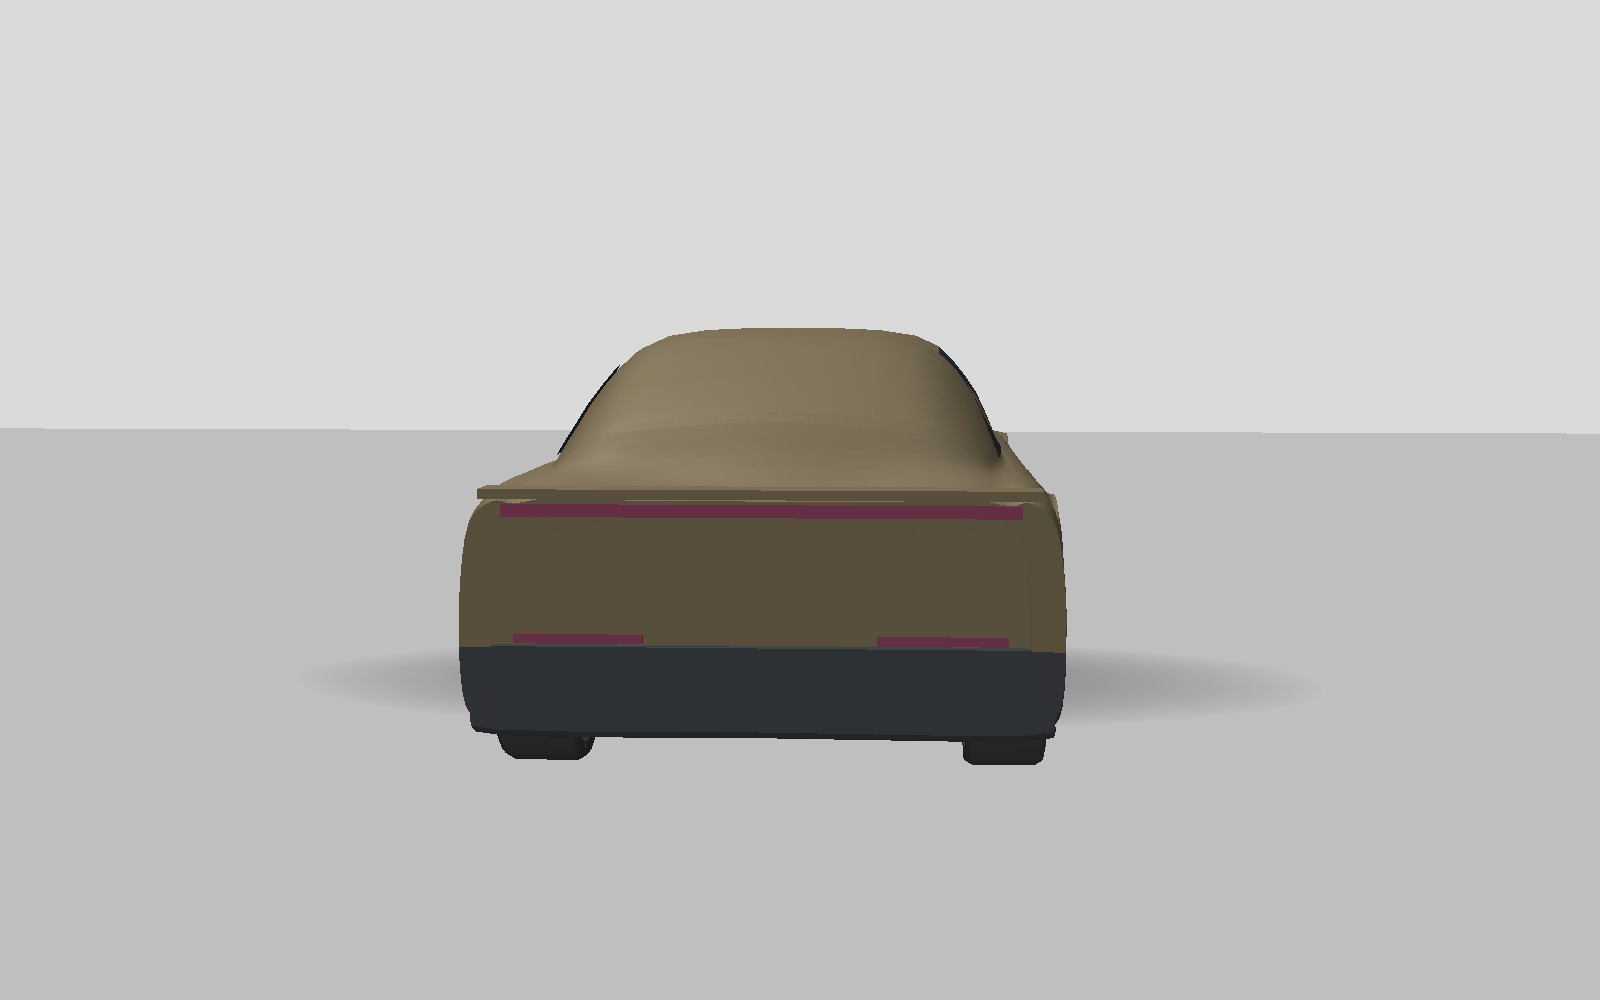
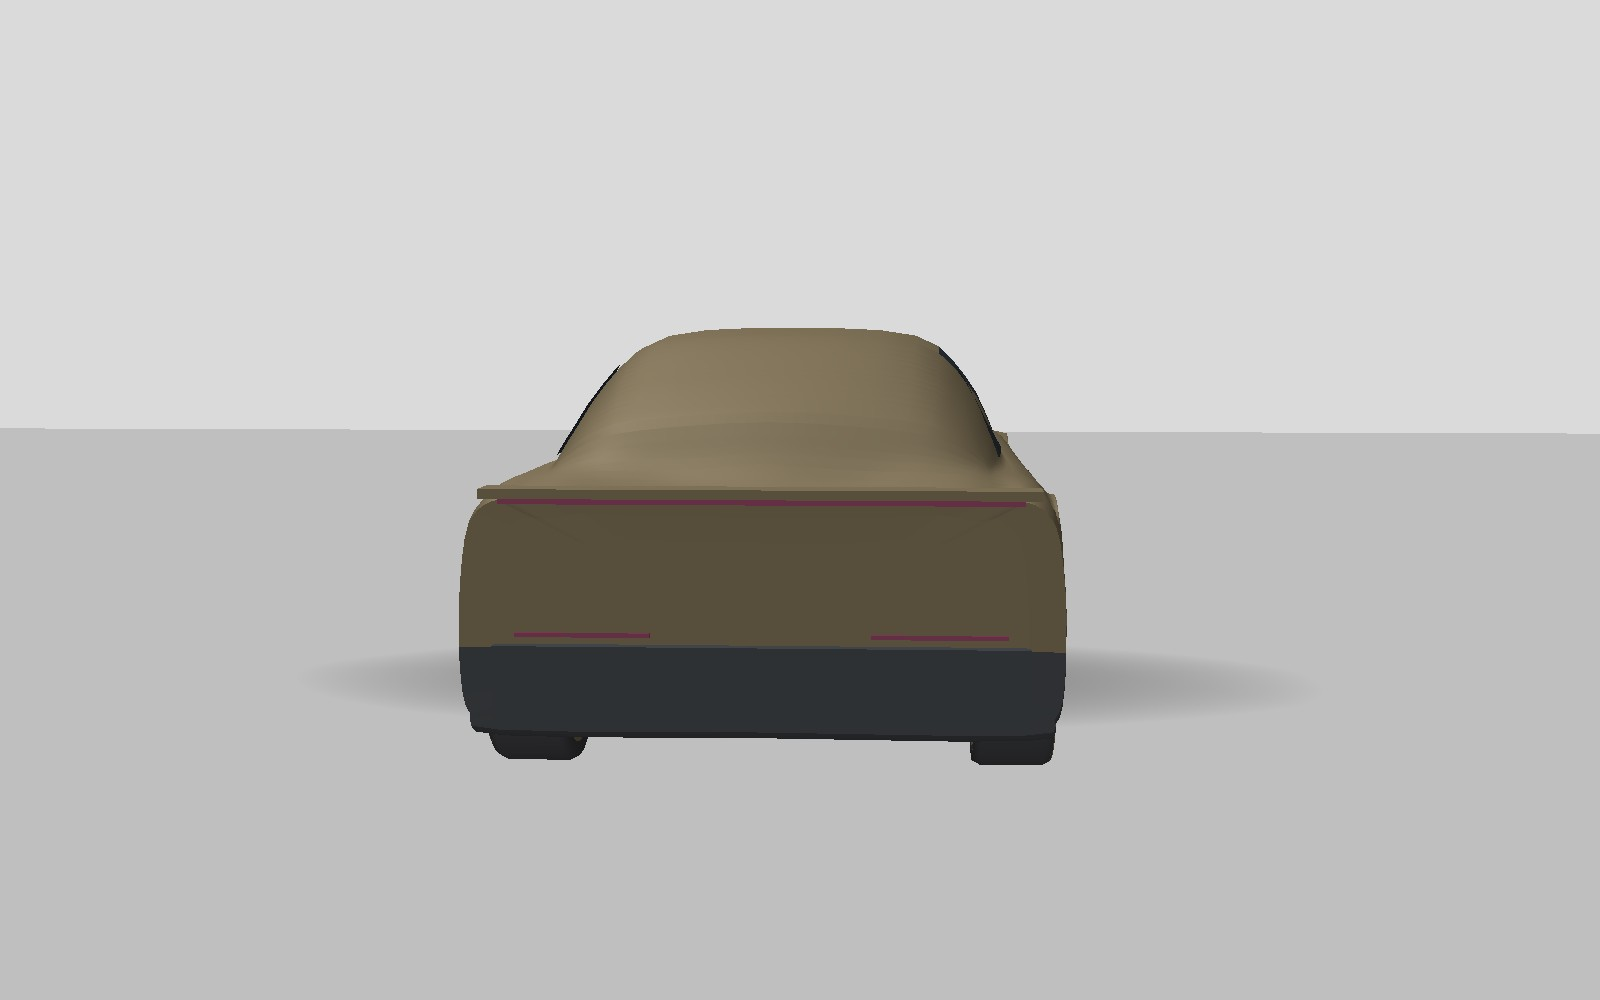
feat(world): thin Cybercab lamps and seat the wheels in the arches (#109)
The body loft stays the #107 sweep. A raised belt and a pinched tail
were tried and withdrawn after they looked worse than the merged shape.

Tests: python -m pytest tests/test_vehicles.py -q -> 10 passed.

diff --git a/jevpilot_vision/web/semif-world/cybercab.js b/jevpilot_vision/web/semif-world/cybercab.js
@@ -1,4 +1,4 @@
-// The Cybercab-style hero (#90, finish pass #107), rebuilt from photos of the 2024 show car
+// The Cybercab-style hero (#90, finish pass #107, form pass #109), rebuilt from photos of the 2024 show car
 // (Wikimedia Commons, see docs/visual/cybercab/README.md) with the img2threejs workflow: analysis,
 // spec, passes reviewed against the references. No Tesla emblems or lettering.
 //
@@ -305,8 +305,10 @@ function capForwardZ(tris, x, y) {
 // face, because the sampled ring sits inside that face. Stations are 3 mm apart so a quad does not
 // cut the fender's plan curve. A flat offset from NOSE0 sinks the nose into the cap.
 function frontLightBar(rings, zs) {
-  const h = 0.035, gap = 0.003, rows = 24;
-  const barY = (z) => shoulder(z) - 0.03;
+  const h = 0.016, gap = 0.003, rows = 8;
+  // The show car's slit sits on the bumper crown and only rises as it wraps the corner (#109).
+  // Following the shoulder put a 35 mm band across the top of the nose.
+  const barY = spline([[-2.4, 0.43], [-2.2, 0.47], [-2.02, 0.53], [-1.9, 0.57]]);
   const ringAt = (z) => {
     let i = 0;
     while (i < zs.length - 2 && zs[i + 1] < z) i++;
@@ -550,7 +552,7 @@ function wheel(name, x, z, front, m) {
   // its radius, and a small domed centre cap.
   const f = out * (w / 2 + 0.002), o = (d) => f + out * d; // proud of the tyre's sidewall, so only a thin tyre band shows
   spin.add(m.cover, lathe([
-    [r * 0.945, o(-0.03)], [r * 0.945, o(-0.006)], [r * 0.925, o(0.002)], [r * 0.64, o(0.003)], [r * 0.61, o(-0.006)],
+    [r * 0.97, o(-0.03)], [r * 0.97, o(-0.006)], [r * 0.948, o(0.002)], [r * 0.64, o(0.003)], [r * 0.61, o(-0.006)],
     [r * 0.6, o(-0.012)], [0.07, o(-0.012)], [0.055, o(-0.004)], [0.035, o(0.002)], [0.001, o(0.004)],
   ], { segments: 44 }));
   spin.add(m.cover, lathe([[r * 0.9, -out * (w / 2)], [0.001, -out * (w / 2)]], { segments: 30 })); // the inner face
@@ -572,7 +574,7 @@ function mats() {
     clad: material(C.trim, { roughness: 0.62, metalness: 0.1 }),
     well: material(C.trim, { roughness: 0.95, side: 2 }),
     tyre: material(C.tyre, { roughness: 0.92, side: 2 }),
-    lens: material(C.lens, { emissive: C.lens, emissiveIntensity: 1.6, roughness: 0.2, side: 2 }),
+    lens: material(C.lens, { emissive: C.lens, emissiveIntensity: 0.7, roughness: 0.2, side: 2 }),
     tail: material(C.taillight, { emissive: C.taillight, emissiveIntensity: 0.9, roughness: 0.3, side: 2 }),
   };
 }
@@ -591,8 +593,8 @@ export function buildCybercab() {
   // lamps at the bumper corners and the dark bumper itself.
   const lipY = Math.max(shoulder(TAIL), roof(TAIL)) - 0.012;
   details.add(m.paint, box(1.72, 0.03, 0.13, 0, lipY, L2 - 0.065)); // overhangs the tail face by 6 cm; its edge is the car's end
-  details.add(m.tail, box(1.6, 0.04, 0.008, 0, lipY - 0.055, TAIL + 0.004));
-  for (const side of [-1, 1]) details.add(m.tail, box(0.4, 0.03, 0.008, side * 0.56, 0.535, TAIL + 0.03));
+  details.add(m.tail, box(1.62, 0.016, 0.008, 0, lipY - 0.028, TAIL + 0.004));
+  for (const side of [-1, 1]) details.add(m.tail, box(0.42, 0.014, 0.008, side * 0.55, 0.545, TAIL + 0.02));
   details.add(m.clad, box(1.66, 0.25, 0.05, 0, 0.385, TAIL + 0.005));
   // Wheel wells: a dark half-tube inside each arch, so the gap round the tyre is shadow, not the
   // far side of the car. It stays under the fender (shoulder > arch top over both axles).
@@ -604,7 +606,7 @@ export function buildCybercab() {
   extra.add(...details.meshes());
   group.add(extra);
 
-  const track = (az) => half(az) - CYBERCAB.w / 2 - 0.04; // covers flush with the fender lip
+  const track = (az) => half(az) - CYBERCAB.w / 2 - 0.014; // cover face stays just inside the fender lip
   for (const [name, az, isFront] of [["wheel_fl", front, true], ["wheel_fr", front, true], ["wheel_rl", rear, false], ["wheel_rr", rear, false]]) {
     group.add(wheel(name, (name.endsWith("l") ? -1 : 1) * track(az), az, isFront, m));
   }

diff --git a/tests/test_vehicles.py b/tests/test_vehicles.py
@@ -226,15 +226,15 @@ def test_issue107_the_paint_is_matte_and_the_hood_and_fenders_are_split():
         "const tv = verts(K.PALETTE.car.trim), lens = verts(K.PALETTE.car.lens);"
         "const hood = tv.filter((p) => Math.abs(p[2] + 1.52) < 0.006 && p[1] > 0.85);"
         "const fender = tv.filter((p) => p[1] > 0.7 && p[2] < -1.55 && p[2] > -2.20 && Math.abs(Math.abs(p[0]) - 0.62) < 0.02);"
-        "const nose = lens.filter((p) => p[2] < -2.331);"
-        "const side = lens.filter((p) => p[2] >= -2.331 && p[2] < -1.95 && Math.abs(p[0]) > 0.2);"
+        "const nose = lens.filter((p) => p[2] < -2.236);"
+        "const side = lens.filter((p) => p[2] >= -2.232 && p[2] < -1.95 && Math.abs(p[0]) > 0.2);"
         "const cents = pieces.filter((n) => colour(n) === K.PALETTE.car.lens).flatMap((n) => {"
         "  const p = n.geometry.attributes.position.array; const idx = n.geometry.index; const ids = idx ? Array.from(idx.array || idx) : null; const o = [];"
         "  const push = (i0, i1, i2) => { const a = [p[3*i0], p[3*i0+1], p[3*i0+2]], b = [p[3*i1], p[3*i1+1], p[3*i1+2]], c = [p[3*i2], p[3*i2+1], p[3*i2+2]];"
         "    o.push([(a[0]+b[0]+c[0])/3, (a[1]+b[1]+c[1])/3, (a[2]+b[2]+c[2])/3]); };"
         "  if (ids) for (let i = 0; i < ids.length; i += 3) push(ids[i], ids[i+1], ids[i+2]); else for (let v = 0; v < p.length / 3; v += 3) push(v, v+1, v+2); return o; });"
-        "const noseC = cents.filter((p) => p[2] < -2.3315);"
-        "const sideC = cents.filter((p) => p[2] >= -2.3295 && p[2] < -1.95 && Math.abs(p[0]) > 0.2);"
+        "const noseC = cents.filter((p) => p[2] < -2.237);"
+        "const sideC = cents.filter((p) => p[2] >= -2.231 && p[2] < -1.95 && Math.abs(p[0]) > 0.2);"
         "const onHood = (p) => Math.abs(p[2] + 1.52) < 0.006 && p[1] > 0.85;"
         "const hoodC = pieces.filter((n) => colour(n) === K.PALETTE.car.trim).flatMap((n) => {"
         "  const p = n.geometry.attributes.position.array; const idx = n.geometry.index; const ids = idx ? Array.from(idx.array || idx) : null; const o = [];"
@@ -264,10 +264,54 @@ def test_issue107_the_paint_is_matte_and_the_hood_and_fenders_are_split():
     assert got["fenderOut"], "the fender shut lines sit just outside the paint"
     assert got["noseOut"], "the nose light-bar vertices sit just ahead of the nose skin"
     assert got["sideOut"], "the light-bar vertices stay just outside the front fenders"
-    for name, band in (("noseFace", got["noseFace"]), ("sideFace", got["sideFace"])):
-        assert band["n"] >= 1000 and band["hit"] == band["n"], band
+    for name, band, least in (("noseFace", got["noseFace"], 1000), ("sideFace", got["sideFace"], 400)):
+        assert band["n"] >= least and band["hit"] == band["n"], (name, band)
         assert 0.0002 < band["min"] and band["max"] < 0.007, (name, band)
     hood_face = got["hoodFace"]
     assert hood_face["n"] >= 80 and hood_face["hit"] == hood_face["n"], hood_face
     assert 0.001 < hood_face["min"] and hood_face["max"] < 0.008, hood_face
+
+
+def test_issue109_the_lamps_are_slits_and_the_wheels_sit_in_the_arches():
+    """#109: thin bumper and tail slits, wheels sitting inside the arches. The body loft stays
+    the #107 sweep; the plan and the belt are not pulled into a separate fastback."""
+    got = _render(
+        _BOX
+        + "const K = await mod('kit.js'); const car = V.buildHero('cybercab');"
+        "const colour = (n) => { const c = n.material && n.material.color; return typeof c === 'string' ? c : c && c.hex; };"
+        "const pts = (n, ox, oy, oz) => { const p = n.geometry.attributes.position.array, o = [];"
+        "  for (let i = 0; i < p.length; i += 3) o.push([ox + p[i], oy + p[i + 1], oz + p[i + 2]]); return o; };"
+        "const walk = (n, ox, oy, oz, acc) => { const x = ox + (n.position?.x || 0), y = oy + (n.position?.y || 0), z = oz + (n.position?.z || 0);"
+        "  if (n.geometry && colour(n)) acc.push([colour(n), pts(n, x, y, z)]); (n.children || []).forEach((c) => walk(c, x, y, z, acc)); };"
+        "const bag = []; walk(car, 0, 0, 0, bag);"
+        "const of = (hex) => bag.filter((b) => b[0] === hex).flatMap((b) => b[1]);"
+        "const span = (ps) => { const ys = ps.map((p) => p[1]); return { n: ps.length, lo: Math.min(...ys), hi: Math.max(...ys), mid: ys.reduce((s, y) => s + y, 0) / ys.length }; };"
+        "const lens = of(K.PALETTE.car.lens);"
+        "const slit = span(lens.filter((p) => p[2] < -2.30 && Math.abs(p[0]) < 0.15));"
+        "const tail = of(K.PALETTE.car.taillight);"
+        "const tailSlit = span(tail.filter((p) => p[1] > 0.8));"
+        "const paint = of(K.PALETTE.car.champagne);"
+        "const band = (z, pred) => paint.filter((p) => Math.abs(p[2] - z) < 0.03 && pred(p) && p[1] > 0.7);"
+        "const ymax = (ps) => ps.reduce((m, p) => Math.max(m, p[1]), 0);"
+        "const crest = ymax(band(-1.85, (p) => Math.abs(Math.abs(p[0]) - 0.62) < 0.08));"
+        "const centre = ymax(band(-1.85, (p) => Math.abs(p[0]) < 0.05));"
+        "const fl = all(car).find((n) => n.name === 'wheel_fl');"
+        "const cover = []; walk(fl, 0, 0, 0, cover);"
+        "const coverPts = cover.filter((b) => b[0] === K.PALETTE.car.champagne).flatMap((b) => b[1]);"
+        "const coverX = Math.min(...coverPts.map((p) => p[0]));"
+        "const coverR = Math.max(...coverPts.map((p) => Math.hypot(p[1] - fl.position.y, p[2] - fl.position.z)));"
+        "const body = all(car).find((n) => n.name === 'body');"
+        "const skin = []; walk(body, 0, 0, 0, skin);"
+        "const lipPts = skin.filter((b) => b[0] === K.PALETTE.car.champagne).flatMap((b) => b[1]).filter((p) => Math.abs(p[2] - fl.position.z) < 0.15 && p[1] > 0.85);"
+        "const lip = Math.min(...lipPts.map((p) => p[0]));"
+        "out({ slit, tailSlit, valley: crest - centre, crest, centre, gap: coverX - lip, coverX, lip, coverR });"
+    )
+    slit, tail = got["slit"], got["tailSlit"]
+    assert slit["n"] >= 8, slit
+    assert 0.012 < slit["hi"] - slit["lo"] < 0.022, slit
+    assert 0.38 < slit["mid"] < 0.52, slit
+    assert tail["n"] >= 8 and 0.012 < tail["hi"] - tail["lo"] < 0.022, tail
+    assert got["valley"] > 0.04, got
+    assert 0.006 < got["gap"] < 0.022, got
+    assert 0.40 < got["coverR"] < 0.418, got
 

diff --git a/docs/visual/cybercab/README.md b/docs/visual/cybercab/README.md
@@ -38,10 +38,11 @@
 |---|---|
 | ![停車](ingame-parked.jpg) | ![自駕](ingame-driving.jpg) |
 
-單張：[側面](side.jpg)、[前 3/4](front34.jpg)、[背面](rear.jpg) 是 #107 的霧面與分割線。舊版：[側面](before-side.jpg)、[前 3/4](before-front34.jpg)、[背面](before-rear.jpg)。本機瀏覽器在傳 Three.js 時連線被重置，所以這三張是同一套網格的著色棚拍，不是頁面裡的 WebGL。
+單張：[側面](side.jpg)、[前 3/4](front34.jpg)、[背面](rear.jpg) 是 #109 的外形。舊版：[側面](before-side.jpg)、[前 3/4](before-front34.jpg)、[背面](before-rear.jpg)。本機瀏覽器在傳 Three.js 時連線被重置，所以這三張是同一套網格的著色棚拍，不是頁面裡的 WebGL。
 
 ## 和照片還有差距的地方
 
 - **顏色比照片淡**：玻璃、黑色下飾板和輪拱內襯沿用色盤的 `glass`、`trim`（深灰），尾燈沿用 `taillight`（暗紫紅），只加上同色的自發光。照片裡它們接近全黑和亮紅，但更深的黑會落進相機的行人遮罩，亮紅會落進紅燈遮罩。依 AGENTS.md，在 #30 撤回這些遮罩配色之前，不新增例外；#30 之後再調回照片的顏色。
 - 玻璃是單一顏色，沒有車內的層次。
-- **#107**：香檳金改成霧面（車身 roughness 0.68、輪蓋 0.70、clearcoat 0.04）。引擎蓋前緣與左右前翼子板各有一條 `trim` 分割線，落在烤漆面外約 2 mm。前燈條施工外偏 3 mm，三角面重心的中位數是 3 mm，實測約 0.5–5.6 mm，都在殼外。色票沒有新增。
+- **#107**：香檳金改成霧面（車身 roughness 0.68、輪蓋 0.70、clearcoat 0.04）。引擎蓋前緣與左右前翼子板各有一條 `trim` 分割線，落在烤漆面外約 2 mm。前燈條施工外偏 3 mm，三角面重心的中位數是 3 mm，都在殼外。色票沒有新增。
+- **#109**：車身輪廓退回 #107 那一版（引擎蓋一路升上擋風玻璃，肩線約 1 m，車尾與中段同寬）。前燈條 16 mm，放在前保桿上緣，到輪拱就停。輪蓋外緣約在葉子板內 1 cm，蓋面半徑是輪徑的 0.97。尾燈主條 16 mm，自發光 0.7。沒有用 Model Y 的網格改車身。色票沒有新增。
